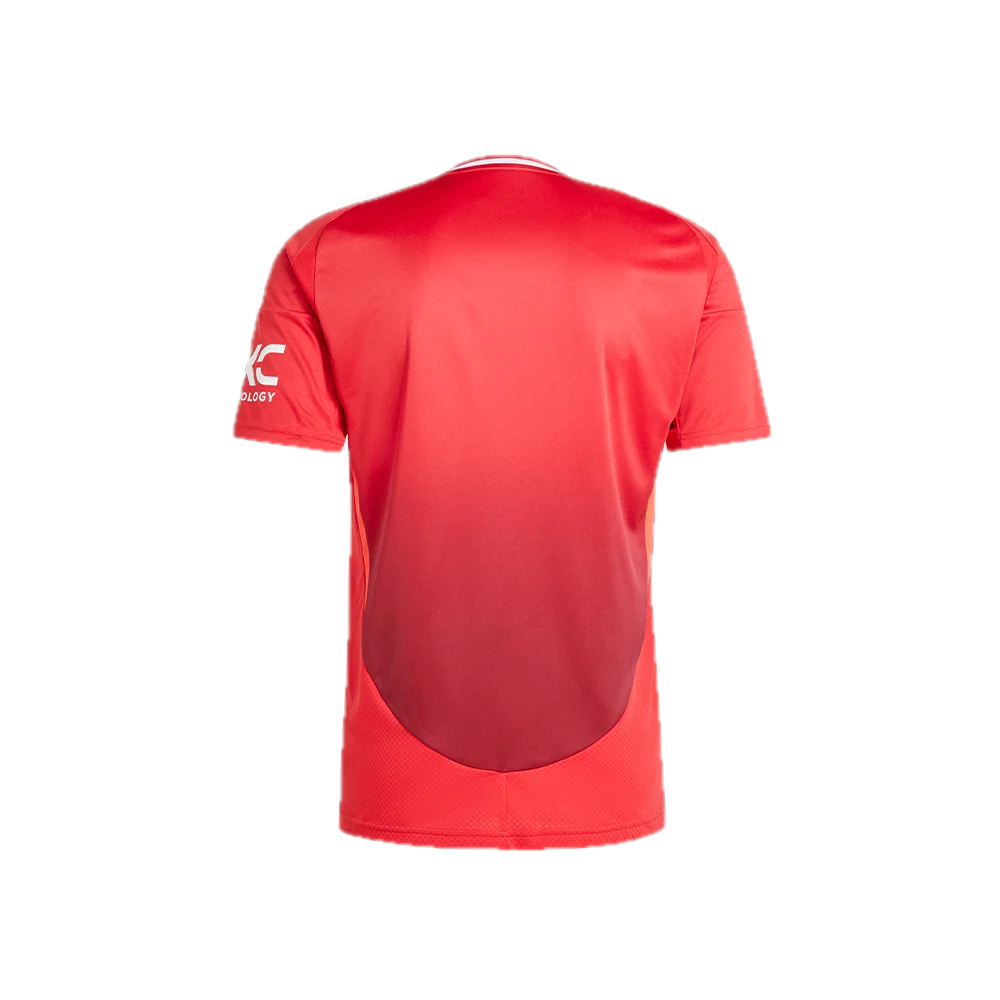
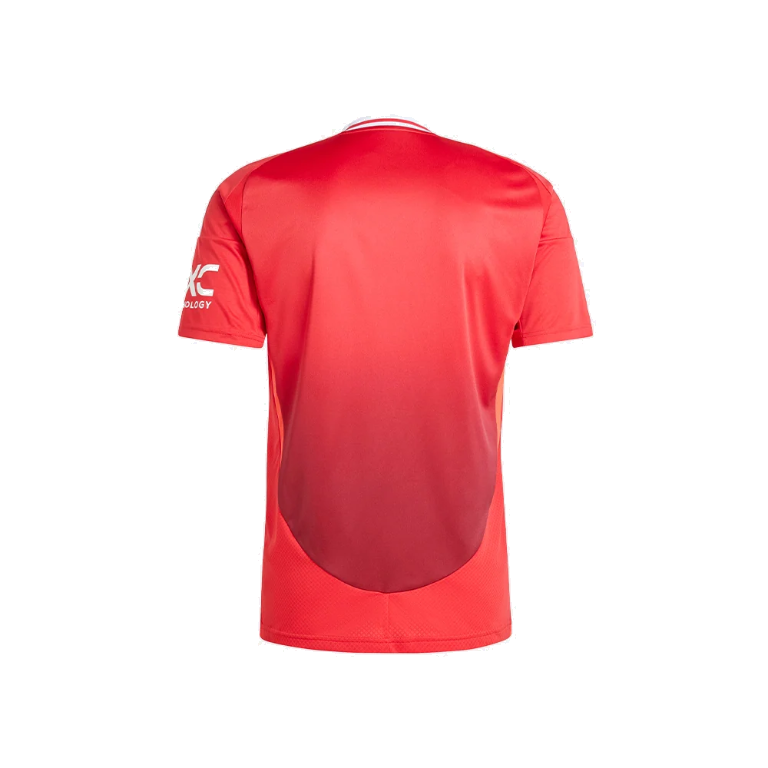
Update supplied jersey back images

diff --git a/script.js b/script.js
@@ -17,7 +17,7 @@ const PRODUCTS = [
     reviewsCount: 1420,
     badge: 'BÁN CHẠY NHẤT',
     image: 'images/home-kit-2024-25-front.png',
-    imageBack: 'images/home-kit-2024-25-back.png',
+    imageBack: 'images/home-kit-2024-25-back.png?v=20261114-0205',
     description: 'Chiếc áo đấu sân nhà Manchester United 2024/2025 mang sắc đỏ rực lửa với hiệu ứng chuyển sắc gradient độc đáo. Nhà tài trợ Snapdragon nổi bật trước ngực cùng 3 sọc trắng Adidas kiêu hãnh trên vai.',
     features: [
       'Công nghệ dệt Heat.Rdy làm mát cơ thể tối ưu',
@@ -40,7 +40,7 @@ const PRODUCTS = [
     reviewsCount: 890,
     badge: 'MỚI RA MẮT',
     image: 'images/away-kit-2024-25-front.png',
-    imageBack: 'https://assets.adidas.com/images/w_600,f_auto,q_auto/01f074d6c81d4e0e8e6ca6f505436605_9366/Manchester_United_24-25_Away_Jersey_Blue_IU1390_HM3_hover.jpg',
+    imageBack: 'images/away-kit-2024-25-back.png?v=20261114-0205',
     description: 'Phiên bản sân khách màu xanh Royal Navy quyền lực lấy cảm hứng từ dòng sông Irwell và sắc xanh lịch sử từng đồng hành cùng Quỷ Đỏ trong chức vô địch Châu Âu 1968.',
     features: [
       'Họa tiết dệt chìm hình chữ M lặp lại hiện đại',
@@ -63,7 +63,7 @@ const PRODUCTS = [
     reviewsCount: 650,
     badge: 'RETRO TREFOIL',
     image: 'images/third-kit-2024-25-front.png',
-    imageBack: 'https://assets.adidas.com/images/w_600,f_auto,q_auto/50bb6d6d84f44a4789596c3f6e85d9c2_9366/Manchester_United_24-25_Third_Jersey_White_IY7806_HM3_hover.jpg',
+    imageBack: 'images/third-kit-2024-25-back.png?v=20261114-0205',
     description: 'Sự trở lại của logo 3 lá Adidas Trefoil huyền thoại trên nền màu trắng kem ngọc trai. Dải 3 màu đỏ - trắng - đen băng qua ngực tạo nên tuyệt tác thời trang bóng đá đường phố.',
     features: [
       'Logo Adidas Trefoil cổ điển chỉ xuất hiện trên áo đấu cấp cao',
@@ -86,7 +86,7 @@ const PRODUCTS = [
     reviewsCount: 2150,
     badge: 'TREBLE 1999',
     image: 'images/retro-treble-1999-front.png',
-    imageBack: 'images/retro-treble-1999-back.png',
+    imageBack: 'images/retro-treble-1999-back.png?v=20261114-0205',
     description: 'Mẫu áo bất tử gắn liền với đêm thần kỳ Camp Nou 1999 của Sir Alex Ferguson. Cổ bẻ có khóa zip độc đáo, logo nhà tài trợ SHARP huyền thoại in to bản cùng logo Umbro kim cương dệt nổi.',
     features: [
       'Tái hiện nguyên bản 100% mẫu áo chung kết C1 1999',
@@ -109,7 +109,7 @@ const PRODUCTS = [
     reviewsCount: 1840,
     badge: 'MOSCOW 2008',
     image: 'images/retro-moscow-2008-front.png',
-    imageBack: 'https://thevault.co.uk/cdn/shop/files/manchester-united-2008-Champions-League-Final-Shirt-back.jpg?v=1767971559&width=800',
+    imageBack: 'images/retro-moscow-2008-back.png?v=20261114-0205',
     description: 'Áo đấu chứng kiến Cristiano Ronaldo bật cao đánh đầu xé lưới Chelsea tại Moscow trong trận chung kết Champions League 2008 nghẹt thở. Dải sọc trắng sau lưng tôn vinh dáng vẻ dũng mãnh.',
     features: [
       'Nhà tài trợ AIG in lụa chuẩn xác màu trắng',
@@ -965,6 +965,7 @@ function renderProductDetail(productId) {
     thumbFront.addEventListener('click', () => {
       detailMainImg.dataset.fallbackSvg = fallbackSvgData;
       detailMainImg.src = prod.image;
+      detailMainImg.classList.remove('is-back');
       detailMainImg.alt = `${prod.name} - mặt trước`;
       thumbFront.classList.add('active');
       if (thumbBack) thumbBack.classList.remove('active');
@@ -975,6 +976,7 @@ function renderProductDetail(productId) {
     thumbBack.addEventListener('click', () => {
       detailMainImg.dataset.fallbackSvg = fallbackSvgBackData;
       detailMainImg.src = prod.imageBack;
+      detailMainImg.classList.add('is-back');
       detailMainImg.alt = `${prod.name} - mặt sau`;
       thumbBack.classList.add('active');
       if (thumbFront) thumbFront.classList.remove('active');
@@ -991,6 +993,7 @@ function renderProductDetail(productId) {
       if (prod.imageBack && detailMainImg && thumbBack) {
         detailMainImg.dataset.fallbackSvg = fallbackSvgBackData;
         detailMainImg.src = prod.imageBack;
+        detailMainImg.classList.add('is-back');
         detailMainImg.alt = `${prod.name} - mặt sau`;
         thumbBack.classList.add('active');
         if (thumbFront) thumbFront.classList.remove('active');

diff --git a/index.html b/index.html
@@ -18,7 +18,7 @@
   <!-- Font Awesome Icons -->
   <link rel="stylesheet" href="https://cdnjs.cloudflare.com/ajax/libs/font-awesome/6.5.1/css/all.min.css">
 
-  <link rel="stylesheet" href="style.css?v=20261113-forms">
+  <link rel="stylesheet" href="style.css?v=20261114-moscow-back-zoom">
 </head>
 
 <body class="dark-theme">
@@ -1728,7 +1728,7 @@
   <!-- Toast Notification Container -->
   <div class="toast-container" id="toastContainer"></div>
 
-  <script src="script.js"></script>
+  <script src="script.js?v=20261114-moscow-back-zoom"></script>
 </body>
 
 </html>

diff --git a/style.css b/style.css
@@ -3672,6 +3672,12 @@ input, select, textarea {
   object-fit: contain;
 }
 
+.detail-real-img.is-back {
+  width: min(100%, 420px);
+  max-width: 420px;
+  max-height: 460px;
+}
+
 .p-thumb-btn img {
   width: 100%;
   height: 100%;
